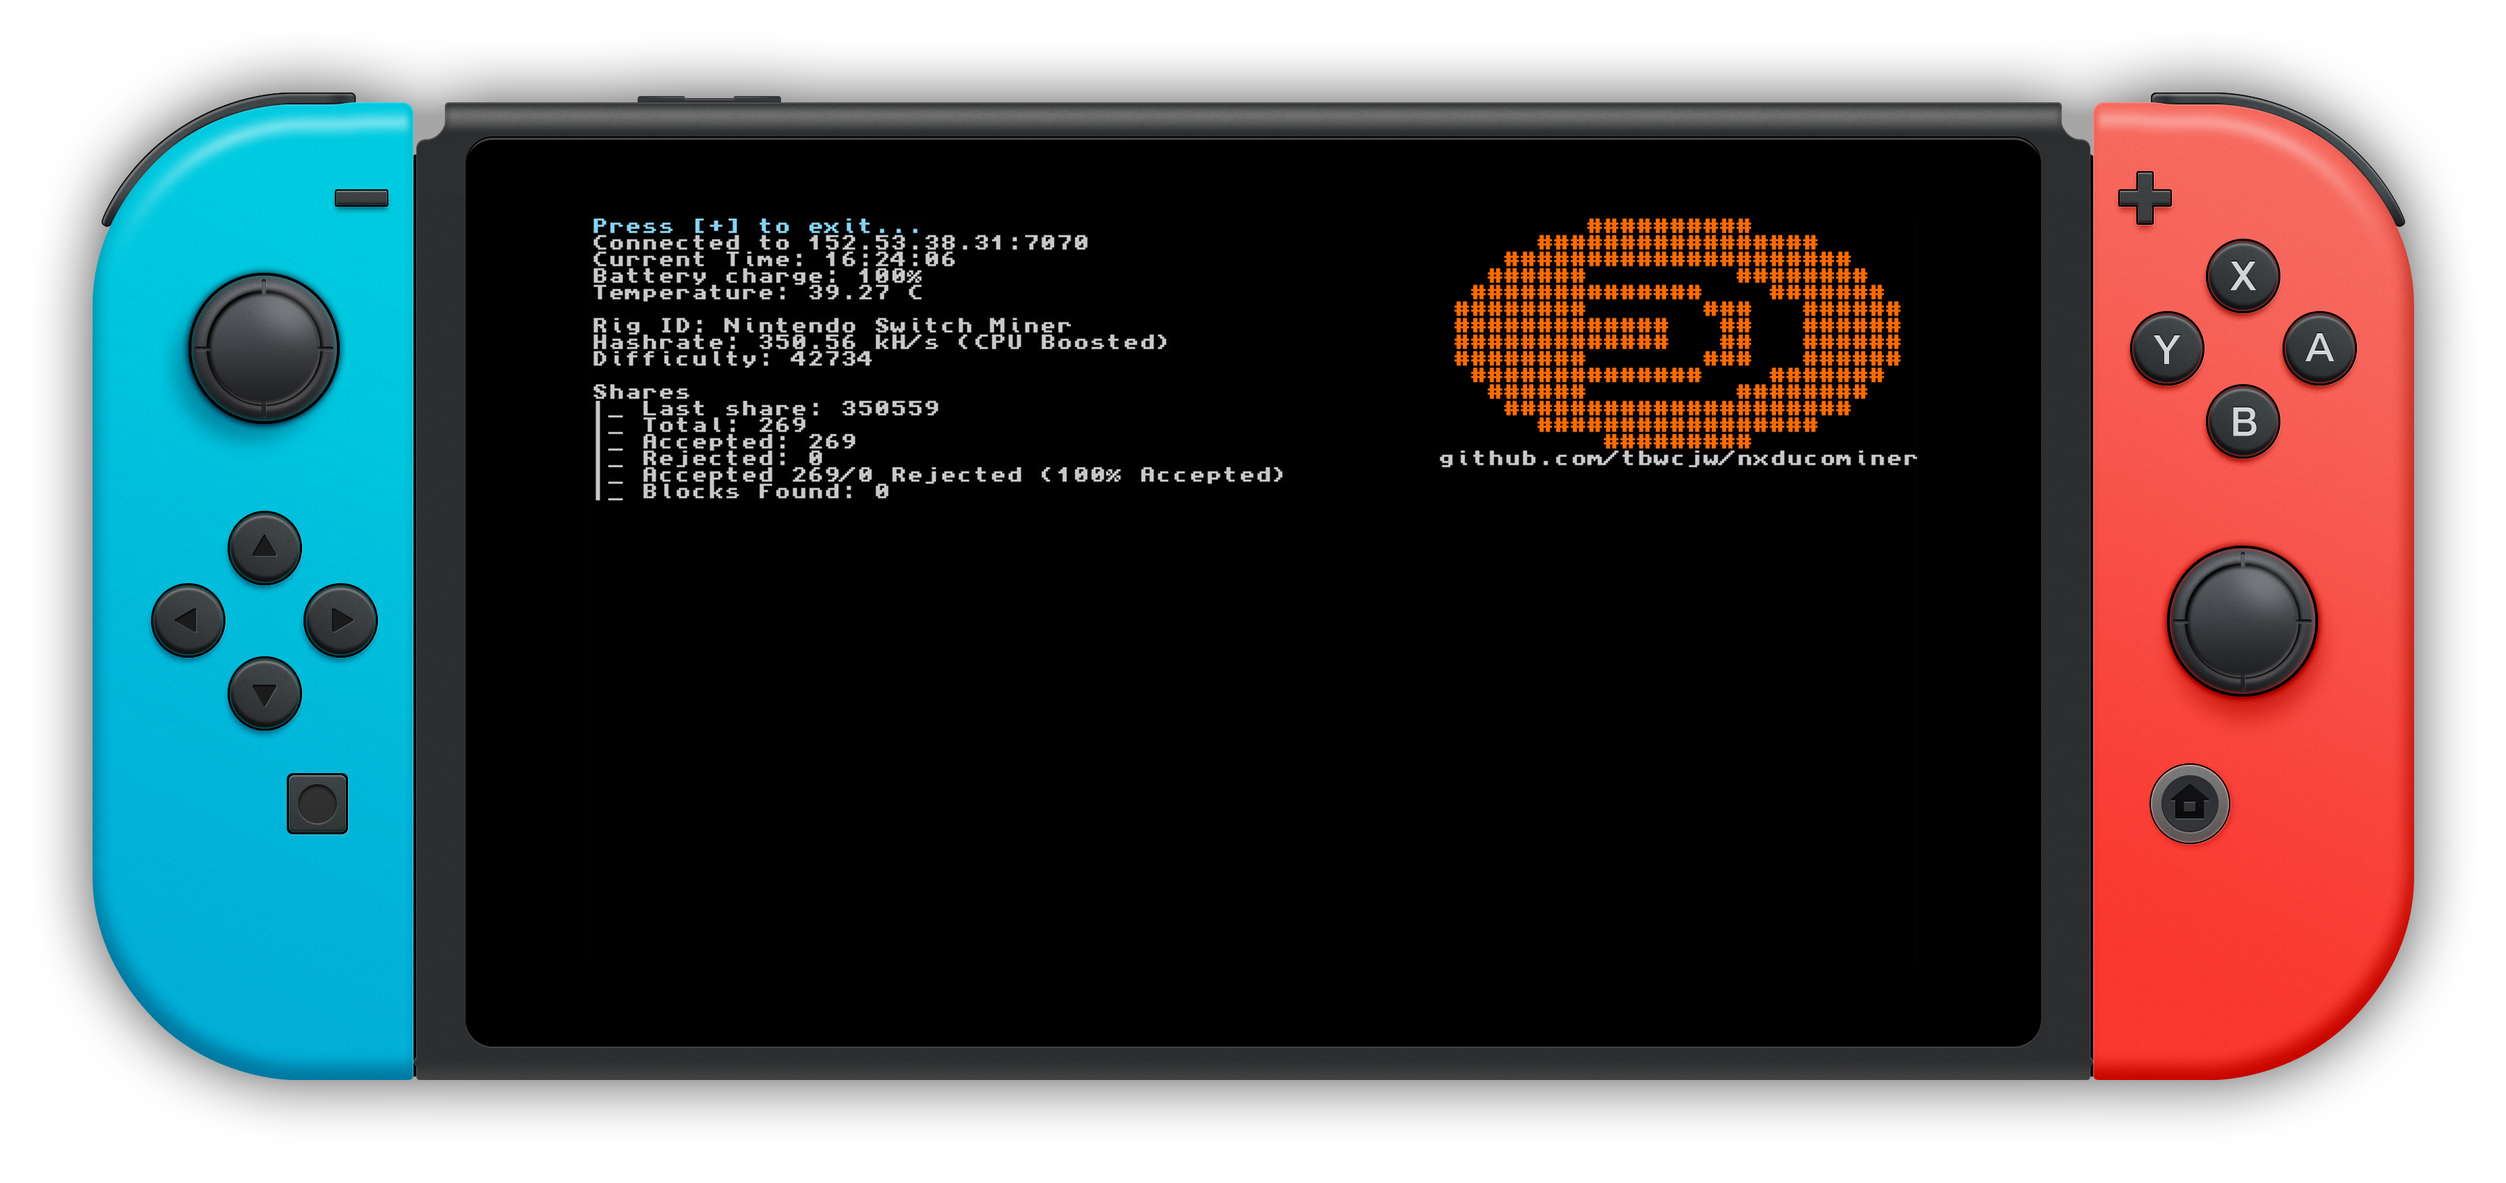
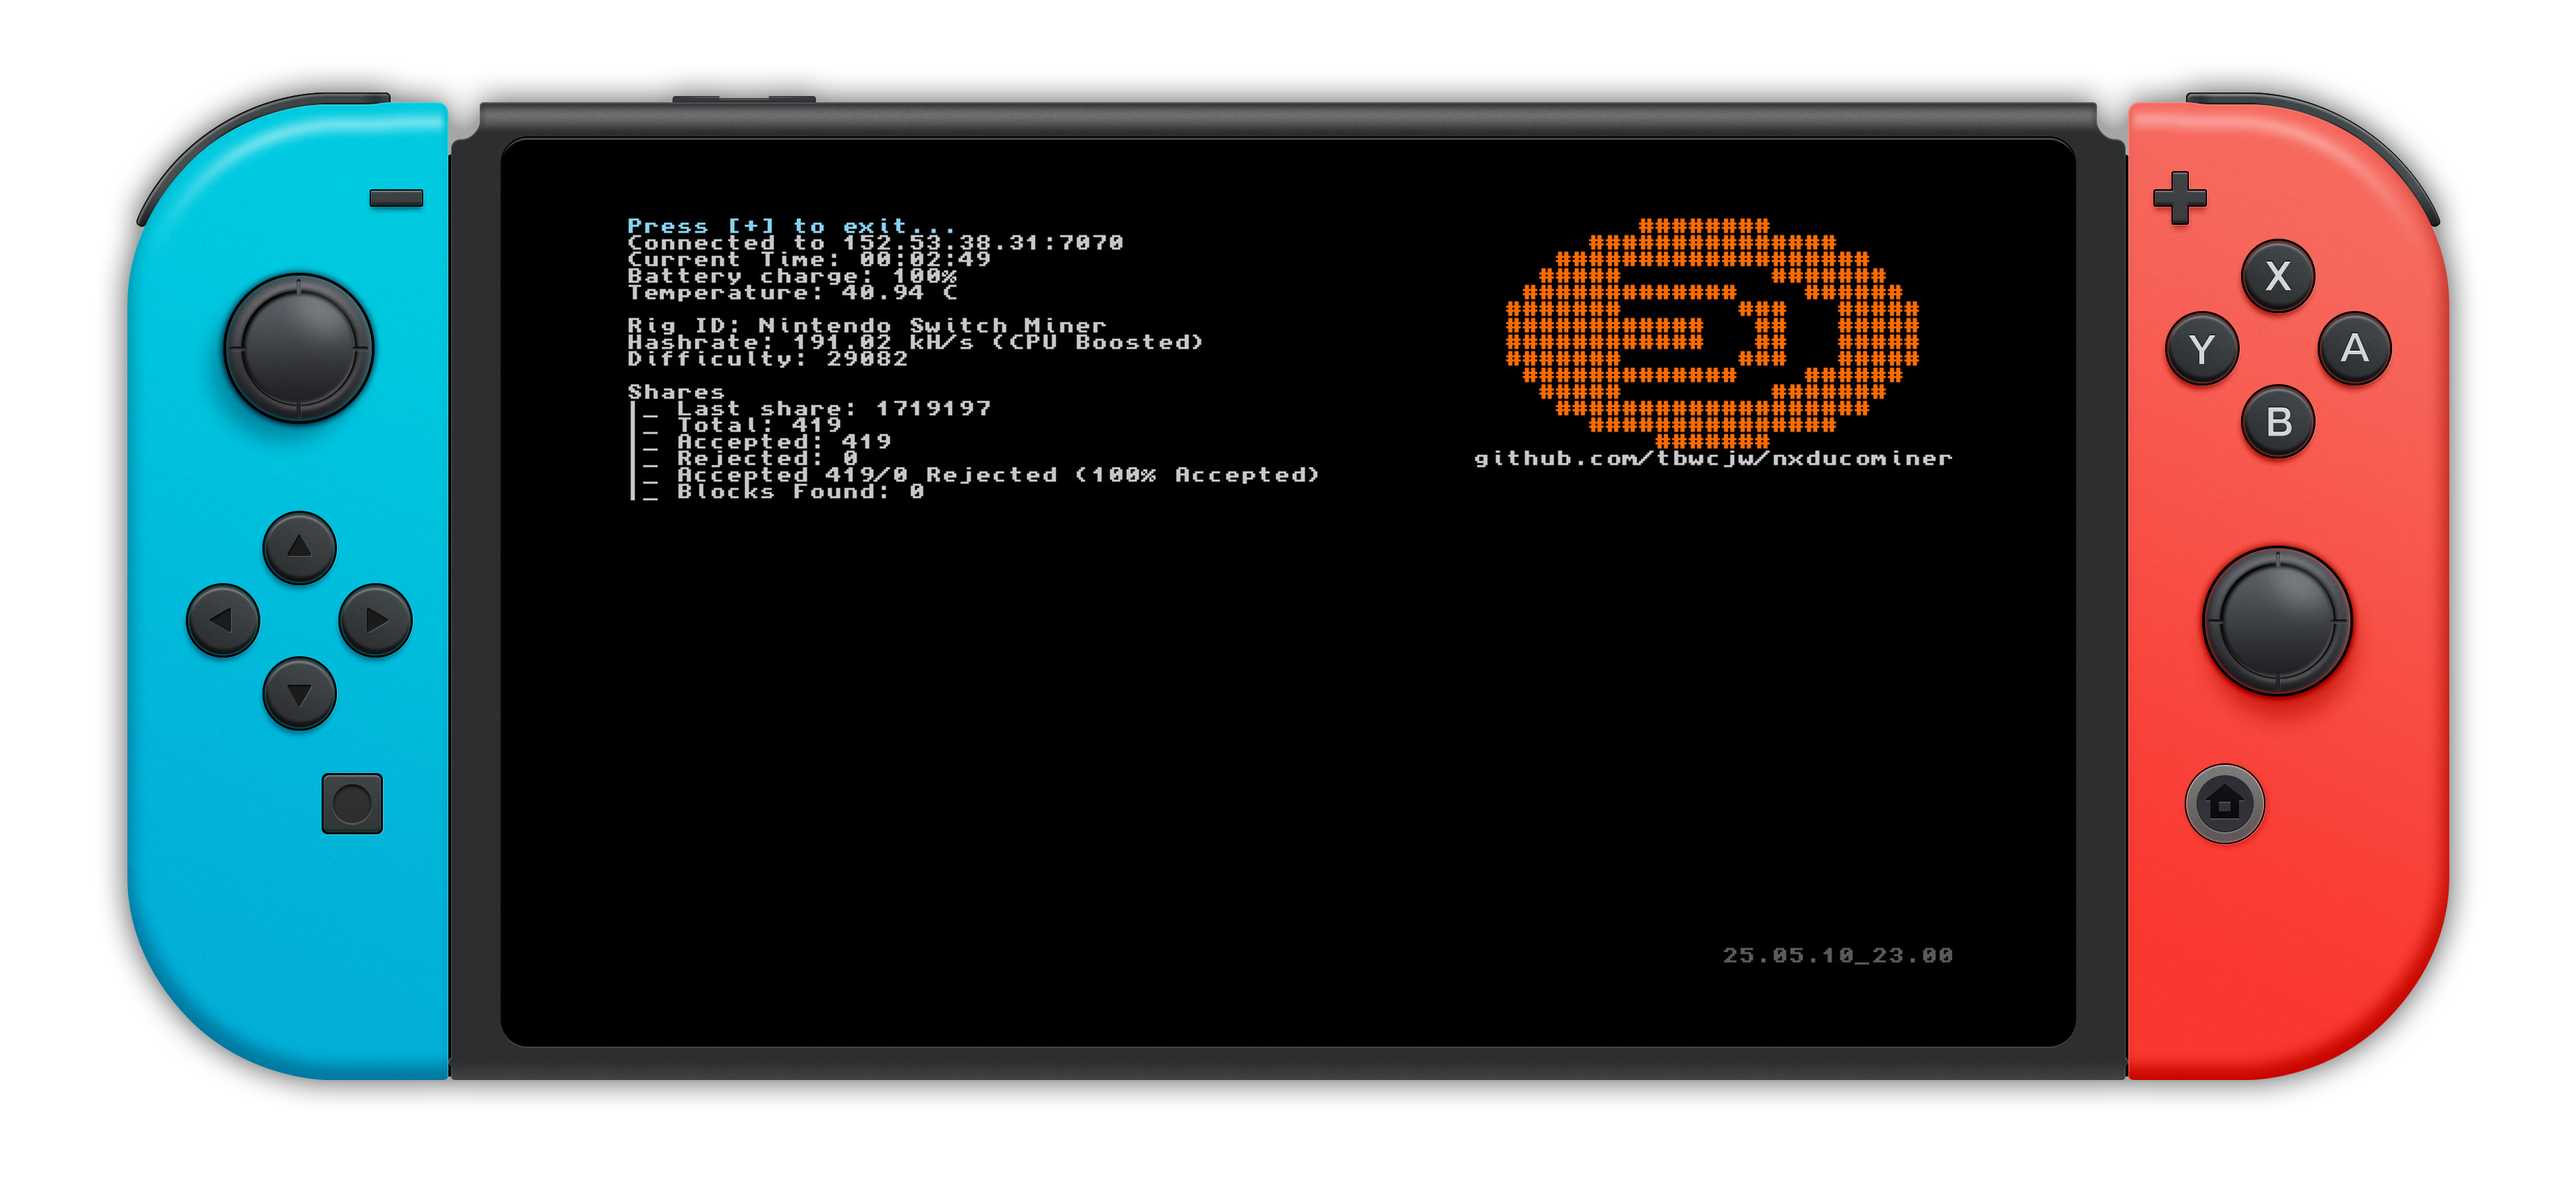
benchmark multithreading, graphing
benchmark_dirty can benchmark multithreaded miner.
using matplotlib for data graphing.
removed deprecation notice for benchmark_dirty.
added multithreaded screenshot to readme

Changed region(s): [[0.0, 0.0312, 0.9956, 0.9665], [0.56, 0.1871, 0.7778, 0.4053], [0.6844, 0.7794, 0.7156, 0.8106]]

diff --git a/tools/benchmark_dirty.py b/tools/benchmark_dirty.py
@@ -1,7 +1,6 @@
 #github/tbwcjw
 #quick and dirty benchmark tool for nxducominer using the nxlink server
 
-#this is DEPRECATED and will be removed in the future
 
 #things this can't do:
 #tell your switch model/firmware version
@@ -17,8 +16,7 @@ import argparse
 import io
 import threading
 import subprocess
-
-
+import matplotlib.pyplot as plt
 
 parser = argparse.ArgumentParser(description="parse nxducominer through nxlink server for benchmarking")
 parser.add_argument("-d", "--duration", type=str, default="1h", help="run duration (e.g., 10m, 1h, 30s)")
@@ -26,6 +24,7 @@ parser.add_argument("--nx", required=True, type=str, help="Path to NXLink")
 parser.add_argument("--ip", required=True, type=str, help="Switch IP")
 parser.add_argument("--nro", required=True, type=str, help="Path to application.nro")
 parser.add_argument("-o", "--output", type=str, default="nxducominer_benchmark.txt", help="Path to save benchmark results")
+parser.add_argument("-og", "--output-graph", type=str, default="nxducominer_benchmark_graph.png", help="Path to save benchmark results")
 args = parser.parse_args()
 
 duration = args.duration
@@ -33,12 +32,15 @@ nxlink_path = args.nx
 switch_ip = args.ip
 nro_path = args.nro
 file_path = args.output
+graph_file_path = args.output_graph
 
 app_version_pattern = re.compile(r'(\d{2}\.\d{2}\.\d{2}_\d{2}\.\d{2})')
 hashrate_pattern = re.compile(r'Hashrate\s*[:]\s*([\d.]+)\s*kH/s', re.IGNORECASE)
 difficulty_pattern = re.compile(r'Difficulty\s*[:]\s*([\d.]+)', re.IGNORECASE)
 total_pattern = re.compile(r'Total\s*[:\|]?\s*(\d+)', re.IGNORECASE)
 cpu_boosted_pattern = re.compile(r'Hashrate\s*:\s*[\d.]+\s*\w+/s\s*\(CPU Boosted\)', re.IGNORECASE)
+threads_pattern = re.compile(r'Threads\s*\((\d+)\)', re.IGNORECASE)
+temp_pattern = re.compile(r'Temperature:\s*(\d+\.\d+)')
 
 def parse_duration(duration_str):
     units = {'s': 1, 'm': 60, 'h': 3600}
@@ -57,6 +59,16 @@ start_time = None
 elapsed = 0
 cpu_boosted = False
 app_version = None
+threads = 0
+temperatures = []  # New list for storing temperature data
+
+# for graphing
+timestamps = []
+avg_hashrate_series = []
+avg_difficulty_series = []
+total_shares_series = []
+share_deltas = []
+temp_series = []  # Series for temperature data
 
 command = [nxlink_path, "-a", switch_ip, nro_path, "-s"]
 
@@ -79,7 +91,7 @@ def clean_console_output(text):
 
 try:
     with open("nxlink_output.log", "r") as f:
-        f.seek(0, io.SEEK_END) 
+        f.seek(0, io.SEEK_END)
 
         while True:
             line = clean_console_output(f.readline())
@@ -88,15 +100,17 @@ try:
                     time.sleep(0.1)
                     continue
                 else:
-                    break  
+                    break
 
             hr_match = hashrate_pattern.search(line)
             diff_match = difficulty_pattern.search(line)
             total_match = total_pattern.search(line)
             cpu_boosted_match = cpu_boosted_pattern.search(line)
             app_version_match = app_version_pattern.search(line)
+            threads_match = threads_pattern.search(line)
+            temp_match = temp_pattern.search(line)
 
-            if any([hr_match, diff_match, total_match, cpu_boosted_match, app_version_match]):
+            if any([hr_match, diff_match, total_match, cpu_boosted_match, app_version_match, temp_match, threads_match]):
                 if start_time is None:
                     start_time = time.time()
                     print("benchmark started")
@@ -106,6 +120,8 @@ try:
                 if elapsed > duration_secs:
                     break
 
+                timestamps.append(elapsed)
+
                 if app_version_match:
                     app_version = str(app_version_match.group(1))
 
@@ -113,16 +129,30 @@ try:
                     cpu_boosted = True
 
                 if hr_match:
-                    hashrates.append(float(hr_match.group(1)))
+                    hr = float(hr_match.group(1))
+                    hashrates.append(hr)
 
                 if diff_match:
                     difficulties.append(float(diff_match.group(1)))
 
                 if total_match:
-                    total_sum += int(total_match.group(1))
+                    new_total = int(total_match.group(1))
+                    if total_shares_series:
+                        share_deltas.append(new_total - total_shares_series[-1])
+                    total_shares_series.append(new_total)
+                    total_sum = new_total
+
+                if threads_match:
+                    threads = int(threads_match.group(1))
+
+                if temp_match:
+                    temp = str(temp_match.group(1))
+                    temperatures.append(temp)  # Store temperature data
 
                 avg_hashrate = statistics.mean(hashrates) if hashrates else 0
                 avg_difficulty = statistics.mean(difficulties) if difficulties else 0
+                avg_hashrate_series.append(avg_hashrate)
+                avg_difficulty_series.append(avg_difficulty)
 
                 if os.name == 'nt':
                     os.system('cls')
@@ -134,8 +164,10 @@ try:
                       f"app version: {app_version}\n"
                       f"avg hashrate: {avg_hashrate:.2f} kH/s\n"
                       f"avg difficulty: {avg_difficulty:.2f}\n"
+                      f"temperature: {temp}\n"
                       f"total shares: {total_sum}\n"
-                      f"cpu boosted: {cpu_boosted}")
+                      f"cpu boosted: {cpu_boosted}\n"
+                      f"threads: {threads}")
                 sys.stdout.flush()
 
 except KeyboardInterrupt:
@@ -152,17 +184,57 @@ output = (
     f"average hashrate: {avg_hashrate:.2f} kH/s\n"
     f"average difficulty: {avg_difficulty:.2f}\n"
     f"total shares: {total_sum}\n"
-    f"cpu boosted: {cpu_boosted}"
+    f"cpu boosted: {cpu_boosted}\n"
+    f"threads: {threads}"
 )
 
 with open(file_path, "w") as f:
     f.write(output)
 
-print("bye!");
+print("bye!")
 
 if os.name == 'nt':
     os.startfile(file_path)
 else:
     os.system(f"xdg-open {file_path}")
 
-exit(0);
+if timestamps:
+    plt.figure(figsize=(12, 10))
+
+    plt.subplot(4, 1, 1)
+    plt.plot(timestamps, avg_hashrate_series, label='Avg Hashrate (kH/s)', color='blue')
+    plt.ylabel("kH/s")
+    plt.title("Average Hashrate Over Time")
+    plt.grid(True)
+
+    plt.subplot(4, 1, 2)
+    plt.plot(timestamps, avg_difficulty_series, label='Avg Difficulty', color='orange')
+    plt.ylabel("Difficulty")
+    plt.title("Average Difficulty Over Time")
+    plt.grid(True)
+
+    if share_deltas:
+        plt.subplot(4, 1, 3)
+        plt.plot(timestamps[1:len(share_deltas)+1], share_deltas, label='Share Deltas', color='green')
+        plt.xlabel("Time (s)")
+        plt.ylabel("Shares Gained")
+        plt.title("Shares Per Snapshot")
+        plt.grid(True)
+
+    if temperatures:
+        plt.subplot(4, 1, 4)
+        plt.plot(timestamps, temperatures, label='Temperature (*C)', color='red')
+        plt.xlabel("Time (s)")
+        plt.ylabel("Temperature (*C)")
+        plt.title("Temperature Over Time")
+        plt.grid(True)
+
+    plt.tight_layout()
+    plt.savefig(graph_file_path)
+
+    if os.name == 'nt':
+        os.startfile(graph_file_path)
+    else:
+        os.system(f"xdg-open {graph_path}")
+
+exit(0)

diff --git a/source/main.c b/source/main.c
@@ -664,6 +664,7 @@ int main() {
             printf(CONSOLE_ESC(80;67H) DARK_GREY "%s" RESET, APP_VERSION);
 
             lastDraw = currentTime;
+
             pthread_mutex_unlock(&res.lock);
             consoleUpdate(NULL);
         }

diff --git a/README.md b/README.md
@@ -147,8 +147,7 @@
 </table>
 <hr>
 <h4>Benchmarking</h4>
-The below is deprecated since multithreading was implemented.<br><br>
-<s>Use <a href='https://github.com/tbwcjw/nxducominer/blob/main/tools/benchmark_dirty.py'>benchmark_dirty.py</a> for official benchmarking. Submit results by opening an issue. Benchmarks should at least be one hour long.
+Use <a href='https://github.com/tbwcjw/nxducominer/blob/main/tools/benchmark_dirty.py'>benchmark_dirty.py</a> for official benchmarking. Submit results by opening an issue. Benchmarks should at least be one hour long.
 <table>
     <thead>
         <tr>
@@ -179,15 +178,24 @@ The below is deprecated since multithreading was implemented.<br><br>
             <td><code>-o</code><br><code>--output</code></td>
             <td>Path to benchmark results.
             <br>
-            <i>Default: <code>nxducominer_benchmark.txt</code></i></td>
+            <i>Default: <code>nxducominer_benchmark.txt</code></i></<td>
+        </tr>
+        <tr>
+            <td><code>-og</code><br><code>--output-graph</code></td>
+            <td>Path to benchmark result graph.
+            <br>
+            <i>Default: <code>nxducominer_benchmark_graph.png</code></i></td>
         </tr>
     </tbody>
 </table>
-</s>
+
 <hr>
 <h4>Screenshots</h4>
 <p align="center">
 <img src="assets/nxducominer_screenshot.png">
+<i>Single Threaded</i><br>
+<img src="assets/nxducominer_screenshot_multithreaded.png"><br>
+<i>Multithreaded</i>
 </p>
 <hr>
 <h4>Credits</h4>
